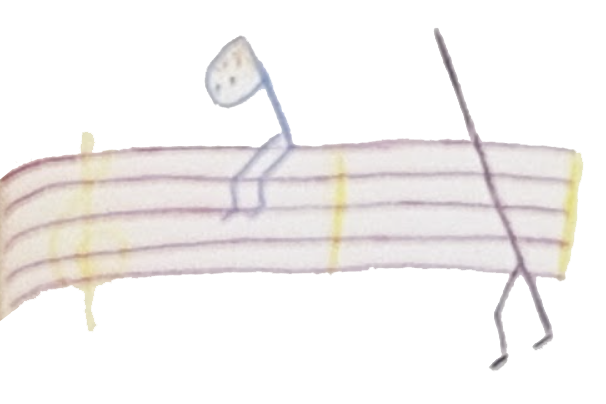
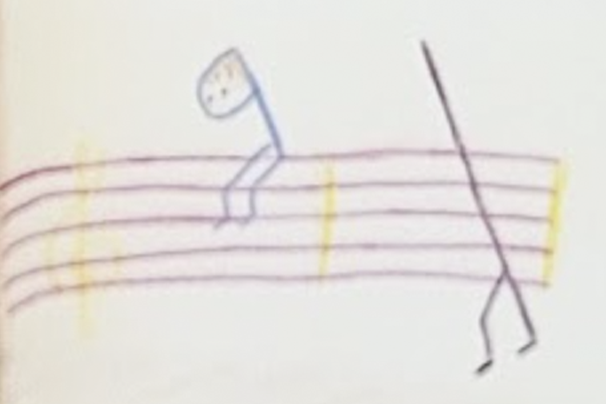
Update 2-1.png image and change background color to #e9eae6

diff --git a/src/app/layout.tsx b/src/app/layout.tsx
@@ -56,7 +56,7 @@ export default function RootLayout({
         <link rel="icon" type="image/x-icon" href="/favicon.ico" />
         <link rel="apple-touch-icon" sizes="180x180" href="/apple-touch-icon.png" />
         <link rel="manifest" href="/manifest.json" />
-        <meta name="theme-color" content="#fdfbf7" />
+        <meta name="theme-color" content="#e9eae6" />
         <meta name="apple-mobile-web-app-capable" content="yes" />
         <meta name="apple-mobile-web-app-status-bar-style" content="default" />
         <meta name="apple-mobile-web-app-title" content="Little Lost Note" />

diff --git a/src/components/AboutModal.tsx b/src/components/AboutModal.tsx
@@ -53,7 +53,7 @@ export default function AboutModal({ isOpen, onClose }: AboutModalProps) {
             aria-modal="true"
             aria-labelledby="about-title"
           >
-            <div className="bg-[#fdfbf7] rounded-lg shadow-xl max-w-2xl w-full max-h-[90vh] overflow-y-auto p-8 relative">
+            <div className="bg-[#e9eae6] rounded-lg shadow-xl max-w-2xl w-full max-h-[90vh] overflow-y-auto p-8 relative">
               <button
                 onClick={onClose}
                 className="absolute top-4 right-4 text-gray-600 hover:text-gray-800 transition-colors"

diff --git a/src/components/Navigation.tsx b/src/components/Navigation.tsx
@@ -60,7 +60,7 @@ export default function Navigation() {
               animate={{ x: 0, opacity: 1 }}
               exit={{ x: -300, opacity: 0 }}
               transition={{ type: 'spring', damping: 25, stiffness: 200 }}
-              className="fixed top-0 left-0 h-full w-64 bg-[#fdfbf7] shadow-2xl z-50 overflow-y-auto"
+              className="fixed top-0 left-0 h-full w-64 bg-[#e9eae6] shadow-2xl z-50 overflow-y-auto"
             >
               <div className="p-6">
                 <div className="flex items-center justify-between mb-8">

diff --git a/src/app/about/page.tsx b/src/app/about/page.tsx
@@ -17,7 +17,7 @@ export const metadata: Metadata = {
 
 export default function AboutPage() {
   return (
-    <div className="min-h-screen bg-[#fdfbf7] flex items-center justify-center p-4">
+    <div className="min-h-screen bg-[#e9eae6] flex items-center justify-center p-4">
       <div className="max-w-3xl w-full bg-white rounded-lg shadow-xl p-8 md:p-12">
         <h1 className="text-5xl md:text-6xl font-bold mb-6 text-gray-800">
           About Little Lost Note

diff --git a/src/app/sheet-music/page.tsx b/src/app/sheet-music/page.tsx
@@ -44,7 +44,7 @@ export default function SheetMusicPage() {
   };
 
   return (
-    <div className="min-h-screen bg-[#fdfbf7] relative">
+    <div className="min-h-screen bg-[#e9eae6] relative">
       <div className="min-h-screen flex flex-col items-center justify-center p-4 md:p-8">
         <div className="max-w-5xl w-full space-y-6">
           {/* Title */}

diff --git a/src/components/BookReader.tsx b/src/components/BookReader.tsx
@@ -61,7 +61,7 @@ export default function BookReader() {
   };
 
   return (
-    <div className="min-h-screen bg-[#fdfbf7] relative">
+    <div className="min-h-screen bg-[#e9eae6] relative">
       {/* About Button */}
       {showAbout && (
         <button

diff --git a/src/app/globals.css b/src/app/globals.css
@@ -1,7 +1,7 @@
 @import "tailwindcss";
 
 :root {
-  --background: #fdfbf7;
+  --background: #e9eae6;
   --foreground: #2d2d2d;
 }
 
